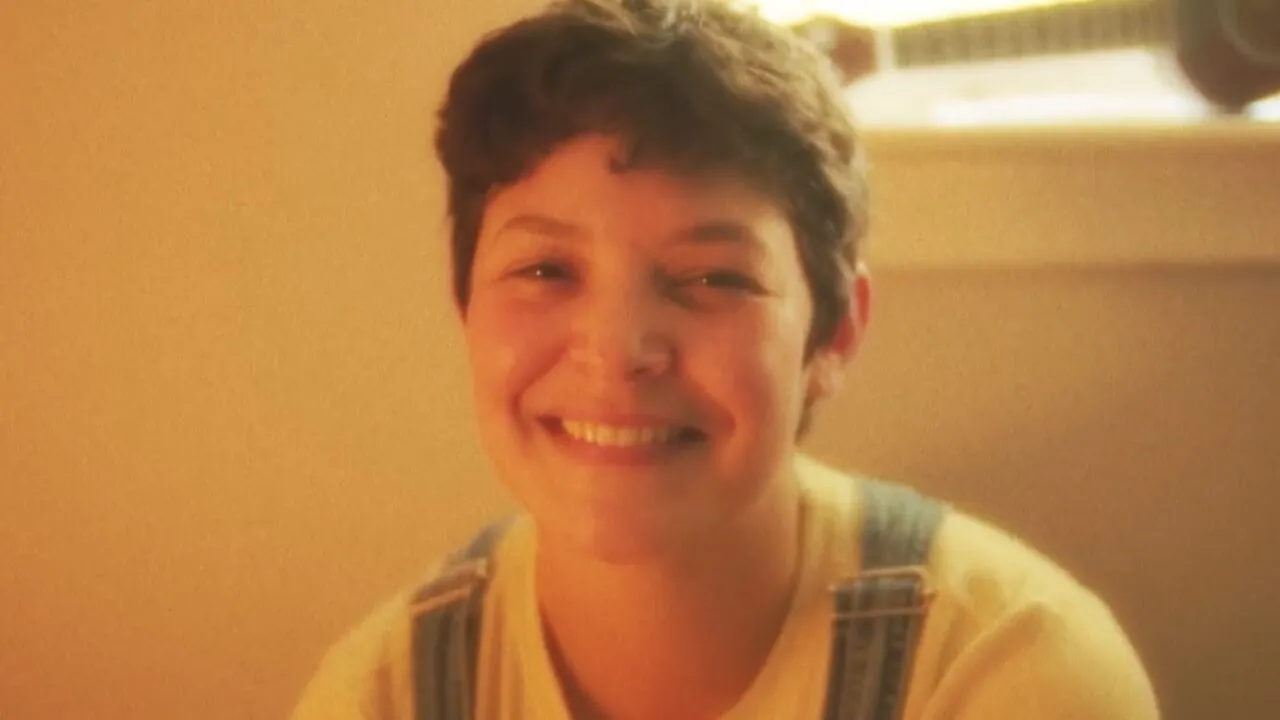
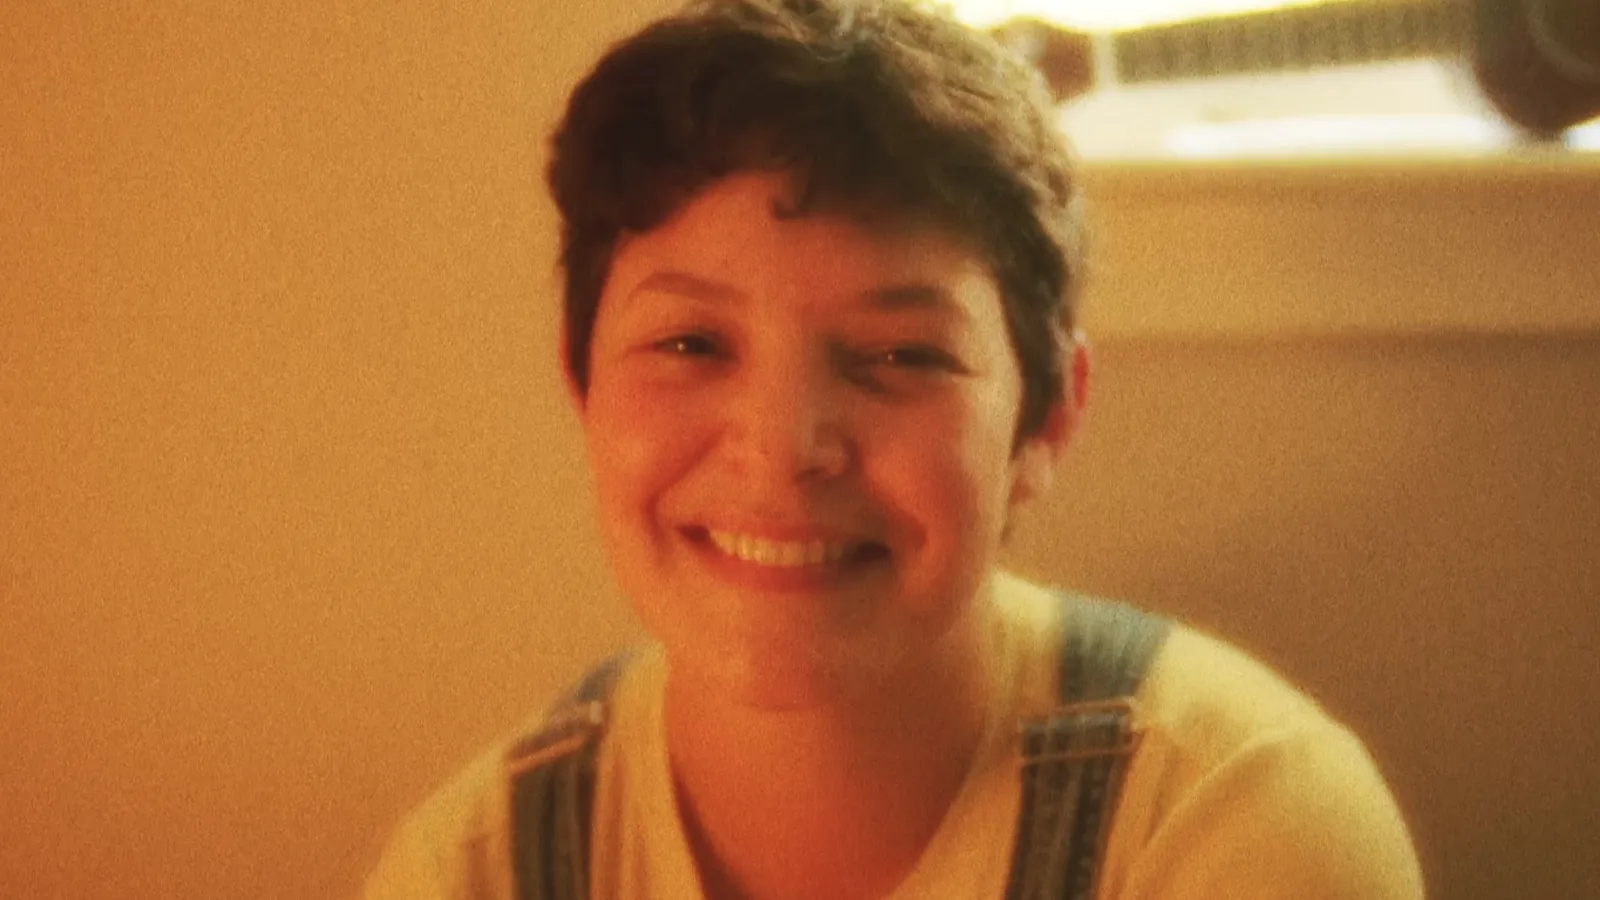
intimacy.: higher-quality still
Claude-Session: https://claude.ai/code/session_01NhEa6Wb1sx8wMzvp2McT5a

diff --git a/index.html b/index.html
@@ -122,7 +122,7 @@
           <div class="film-meta"><span class="film-title">Lemon Fresh</span><span class="film-sub rule-top"><span class="caps">Writer/Director</span><span class="year">2018</span></span></div></a>
         </article>
         <article class="film" style="--fhi:#e8834f">
-          <a href="https://vimeo.com/973535166/12983e5b32" target="_blank" rel="noopener" aria-label="Watch intimacy."><div class="tile"><img src="assets/stills/intimacy.webp" alt="Still from intimacy." width="1280" height="720" loading="lazy"></div>
+          <a href="https://vimeo.com/973535166/12983e5b32" target="_blank" rel="noopener" aria-label="Watch intimacy."><div class="tile"><img src="assets/stills/intimacy.webp?v=2" alt="Still from intimacy." width="1600" height="900" loading="lazy"></div>
           <div class="film-meta"><span class="film-title">intimacy.</span><span class="film-sub rule-top"><span class="caps">Writer/Director</span><span class="year">2024</span></span></div></a>
         </article>
         <article class="film" style="--fhi:#6ea3cf">
